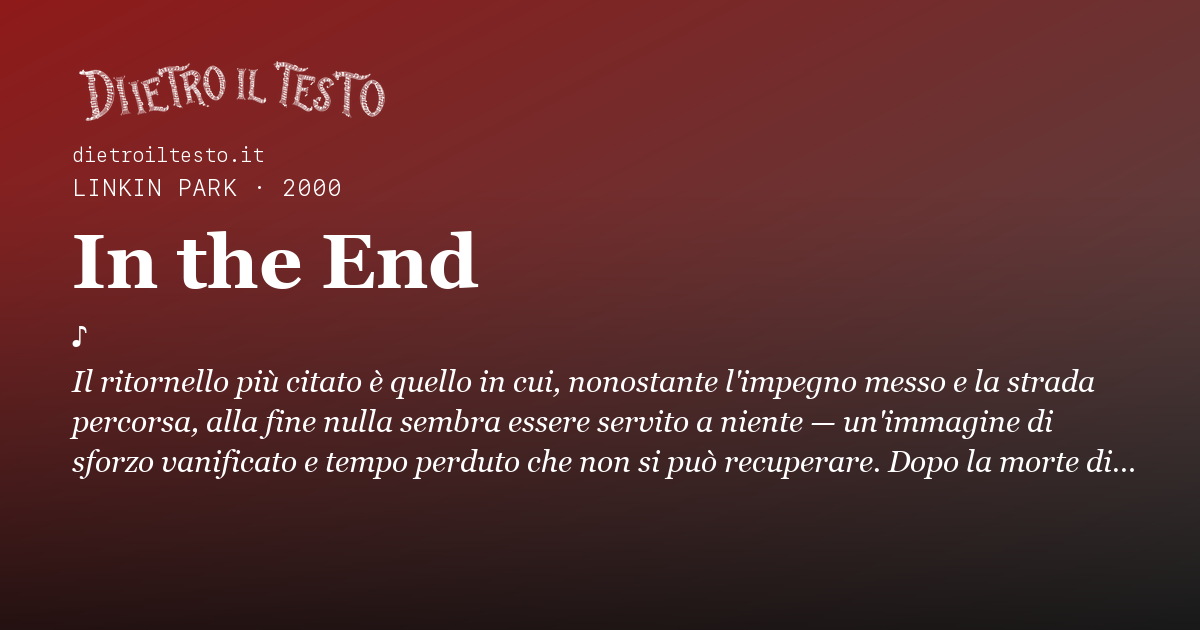
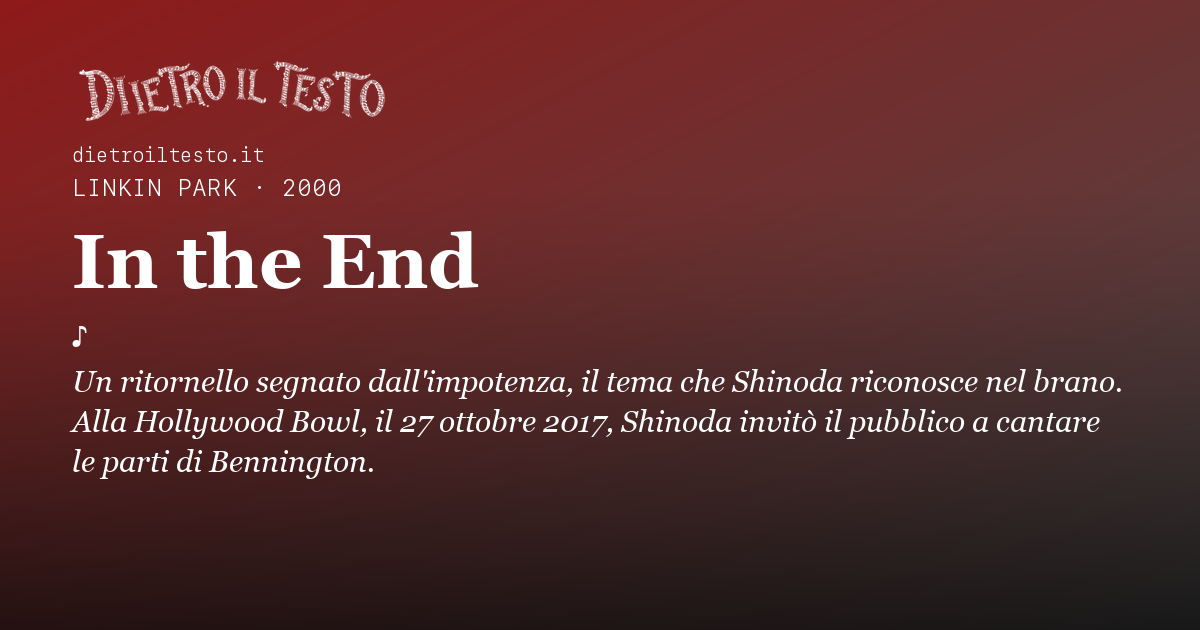
Correggi fonti e frase iconica di In the End

Changed region(s): [[0.0617, 0.573, 0.925, 0.754]]

diff --git a/ROADMAP.md b/ROADMAP.md
@@ -4165,3 +4165,13 @@ Nella copia separata è stata riscritta la frase iconica a livello di funzione d
 Il proprietario ha scritto «applica e procedi» dopo aver visto la proposta del §30. Il commit `c2279c74` è stato integrato con avanzamento diretto in `main` locale. Rigenerato il sito: 26 file pubblicabili sono cambiati, fra cui la pagina della canzone, le anteprime collegate, l'indice di ricerca e le sitemap. Tutti i file del pacchetto generato coincidono byte per byte con quelli della cartella principale. Il file non tracciato `SEO-LASTMOD-2026-09-21.md` conserva lo stesso hash SHA-256 precedente.
 
 **Controlli:** `check-coerenza`, `check-seo`, `check-link`, `check-filtri`, `check-nature` e `git diff --check` passano. La verifica visiva desktop e mobile della pagina e dell'immagine condivisibile è documentata al §30. La modifica è nella cartella principale locale; non è stata inviata a GitHub né pubblicata online. Le correzioni di altre schede e le proposte di immagini restano in copie separate.
+
+## 36. Proposta separata: correzione di In the End, 1 ottobre 2026
+
+Il rapporto indipendente `rapporti/orario/37-in-the-end.md` segnala una frase iconica costruita sulla sequenza di due versi del ritornello (P3), una data del singolo scambiata per quella dell'album, dettagli non documentati e un conteggio Spotify collegato a una pagina generica. Sono state riaperte le fonti pertinenti prima della modifica: [l'intervista di Mike Shinoda a Rock Sound TV riportata da Blabbermouth](https://blabbermouth.net/news/linkin-parks-mike-shinoda-discusses-writing-in-the-end-video/), i [crediti della registrazione su Apple Music](https://music.apple.com/us/song/1839893141), [Loudwire](https://loudwire.com/linkin-park-chester-bennington-in-the-end-mike-shinoda/) e la [cronaca NME del concerto tributo](https://www.nme.com/news/music/linkin-park-chester-bennington-tribute-in-the-end-la-show-2154300). La scheda Wikipedia del brano è rimasta fra le fonti solo per l'anagrafica generale; non è stata usata per fissare il giorno di uscita commerciale del singolo.
+
+Nella copia separata il corpo distingue l'album del 2000 dal singolo del 2001 e attribuisce a Shinoda la lettura del significato senza estenderla a versi specifici. I crediti nominano tutti e sei gli autori riportati da Apple Music e il produttore Don Gilmore. La vicenda delle dichiarazioni di Bennington è formulata senza l'anno non verificato dell'intervista originale. La frase iconica è stata riscritta con parole originali e descrive correttamente l'invito di Shinoda al pubblico, senza il microfono vuoto non documentato. Eliminati il conteggio Spotify non provato dalla fonte citata e l'etichetta tematica «morte-lutto», che riguardava il concerto successivo e non il significato del brano.
+
+**Prove.** Rigenerate 687 pagine e la sola immagine `og/in-the-end.png`, ispezionata per intero. Nell'anteprima locale la scheda mostra il nuovo corpo e la nuova frase, anche nell'attributo della cartolina Instagram; a 390 × 844 px non ha scorrimento orizzontale né errori di console. `check-coerenza`, `check-seo`, `check-link`, `check-attribuzioni --tutte` e `git diff --check` passano. Il controllo delle attribuzioni segnala 30 avvisi informativi già presenti su altre schede.
+
+**Limiti.** `ultimaVerifica` resta vuoto perché questo è un intervento mirato, non il riesame completo della scheda. Il generatore mostra in testata e nell'immagine il solo 2000 del campo «2000 / 2001»: il corpo esplicita i due anni, mentre l'eventuale correzione generale del generatore va trattata a parte. Stato: proposta locale isolata per revisione; nessun trasferimento, push o pubblicazione.
